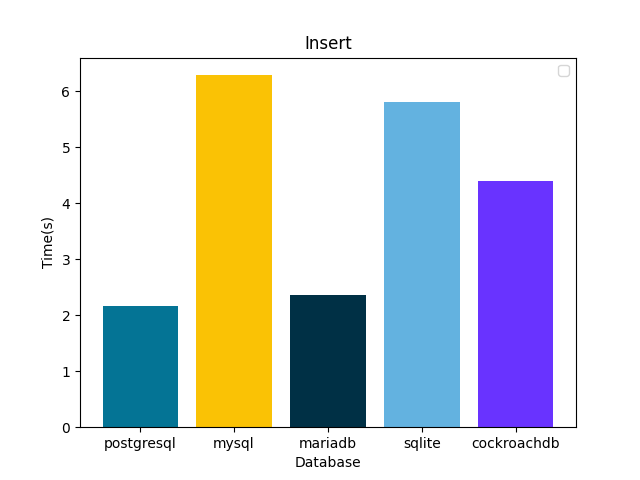
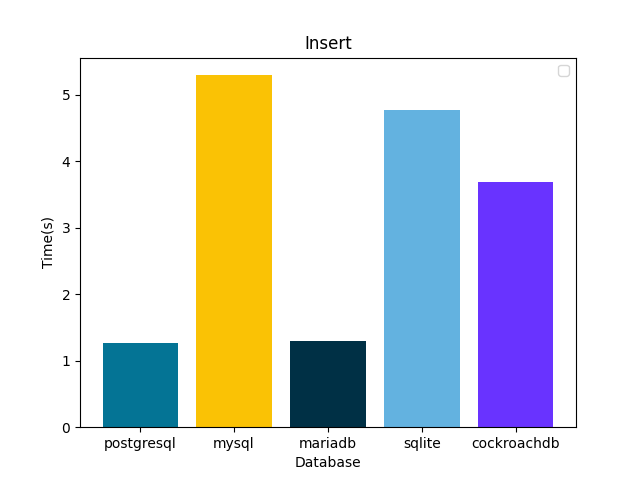
old commits complete

diff --git a/README.md b/README.md
@@ -4,12 +4,13 @@
 - MySQL
 - MariaDB
 - SQLite
+- CockoroachDB
 
 Comparing database operation performance using django ORM.
 
-PostgreSQL vs MySQL vs MariaDB vs SQLite
+PostgreSQL vs MySQL vs MariaDB vs SQLite vs CockoroachDB
 
-
+### The results given below are based on AWS T2 micro
 
 ## Insert performance comparison 
 Tested 1000 row insert in all databases and calculated time is taken.
@@ -57,7 +58,7 @@ Tested 1000 in 1000 rows select operation in indexed column in all databases and
 
 ## Installation 
 
-- install docker and compose 
+- install [docker](https://docs.docker.com/engine/install/) and [docker compose](https://docs.docker.com/compose/install/) 
 - clone repository
 - run ./start.sh
 - result will be stored in reports/graph
